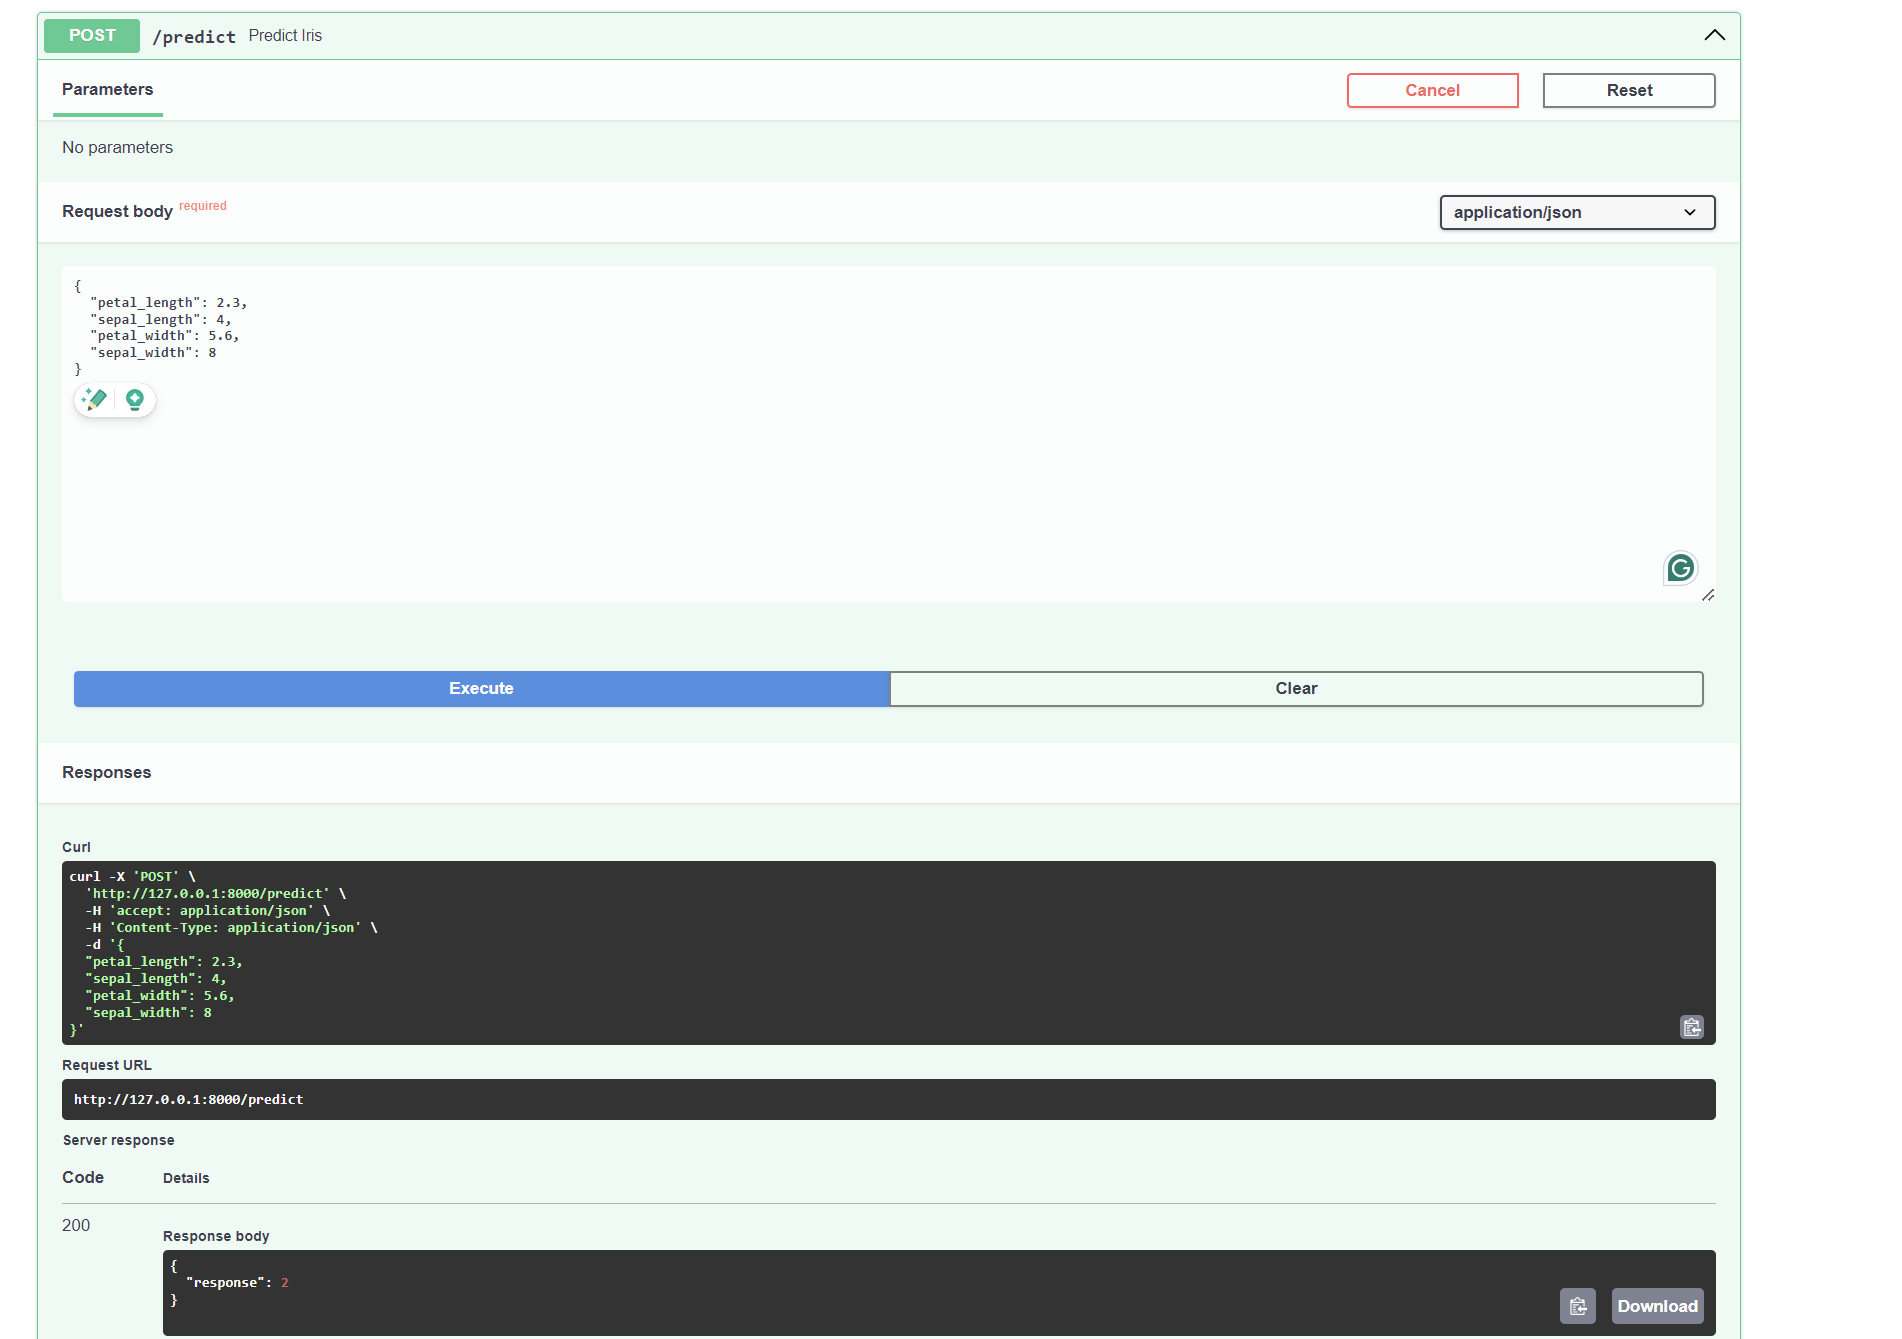
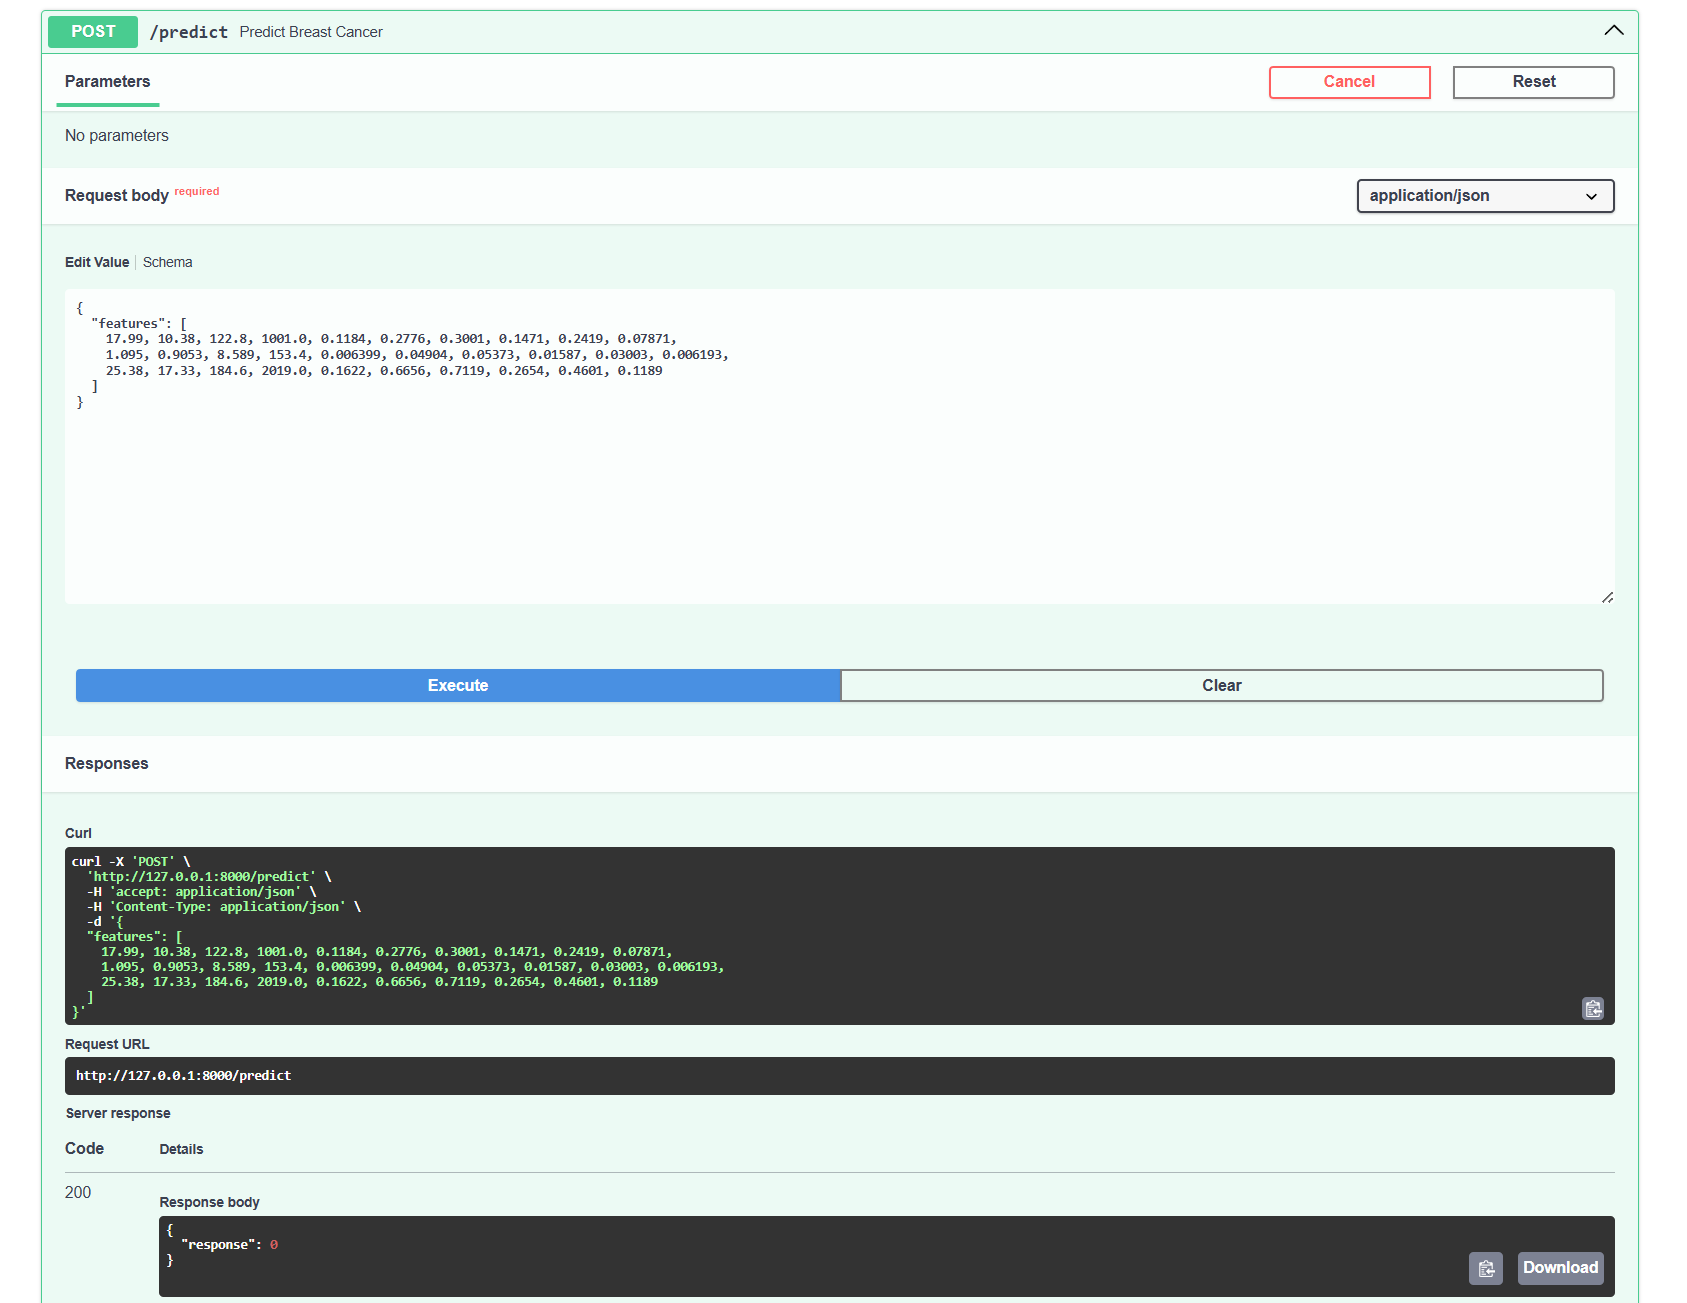
Update README.me

diff --git a/FastAPI_Lab/README.md b/FastAPI_Lab/README.md
@@ -1,3 +1,15 @@
+Changes in this lab assignment:
+
+    1. Switched from Iris to the Breast Cancer dataset.
+    2. Used a Random Forest model instead of a Decision Tree.
+    3. Training now uses all 30 features from the dataset.
+    4. The model is saved as model/breast_rf.pkl.
+    5. The train script uses a stratified train test split with a fixed seed for reproducibility.
+    6. The API request body now accepts a single list named features with exactly 30 numbers.
+    7. Predictions use predict_proba with a 0.5 threshold (0 = malignant, 1 = benign).
+    8. Screenshots in assets show the updated docs and a malignant example
+
+
 
 ---
 - Video Explanation: [FastAPI lab](https://www.youtube.com/watch?v=KReburHqRIQ&list=PLcS4TrUUc53LeKBIyXAaERFKBJ3dvc9GZ&index=4)
@@ -9,10 +21,10 @@
 
 In this Lab, we will learn how to expose ML models as APIs using [FastAPI](https://fastapi.tiangolo.com/) and [uvicorn](https://www.uvicorn.org/).
 1. **FastAPI**: FastAPI is a modern, fast (high-performance), web framework for building APIs with Python based on standard Python type hints.
-2. **uvicorn**: Uvicorn is an [Asynchronous Server Gateway Interface - ASGI](https://youtu.be/vKjCkeJGbNk) web server implementation for Python. It is often used to serve FastAPI aplications.
+2. **uvicorn**: Uvicorn is an [Asynchronous Server Gateway Interface - ASGI](https://youtu.be/vKjCkeJGbNk) web server implementation for Python. It is often used to serve FastAPI applications.
 
 The workflow involves the following steps:
-1. Training a Decision Tree Classifier on Iris Dataset.
+1. Training a Random Forest classifier on the Breast Cancer dataset.
 2. Serving the trained model as an API using FastAPI and uvicorn.
 
 ## Setting up the lab
@@ -23,20 +35,19 @@ The workflow involves the following steps:
 ### Project structure
 
 ```
-mlops_labs
-└── fastapi_lab1
-    ├── assets/
-    ├── fastapi_lab1_env/
-    ├── model/
-    │   └── iris_model.pkl
-    ├── src/
-    │   ├── __init__.py
-    │   ├── data.py
-    │   ├── main.py
-    │   ├── predict.py
-    │   └── train.py
-    ├── README.md
-    └── requirements.txt
+FastAPI_Lab/
+├─ assets/
+├─ model/                    
+│  └─ breast_rf.pkl
+├─ src/
+│  ├─ __init__.py
+│  ├─ data.py                 
+│  ├─ main.py                 
+│  ├─ predict.py              
+│  └─ train.py               
+└─ requirements.txt
+
+
 ```
 
 Note:
@@ -44,19 +55,19 @@ Note:
 
 ## Running the Lab
 
-1. First step is to train a Decision Tree Classifier(Although you have **`model/iris_model.pkl`** when you cloned from the repo, let's create a new model). To do this, move into **src/** folder with
+1. First step is to train a Random Forest classifier (you might already have model/breast_rf.pkl, but let’s train a fresh one). To do this, move into **src/** folder with
     ```bash
     cd src
     ```
-2. To train the Decision Tree Classifier, run:
+2. To train the Random Forest Classifier, run:
     ```bash
     python train.py
     ```
 3. To serve the trained model as an API, run:
     ```bash
-    uvicorn app:main --reload
+    uvicorn main:app --reload
     ```
-4. Testing endpoints - to view the documentation of your api model you can use [http://127.0.0.1:8000/docs](http://127.0.0.1:8000/docs) (or) [http://localhost:8000/docs](http://localhost:8000/docs) after you run you run your FastAPI app.
+4. Testing endpoints - to view the documentation of your API model you can use [http://127.0.0.1:8000/docs](http://127.0.0.1:8000/docs) (or) [http://localhost:8000/docs](http://localhost:8000/docs) after you run your FastAPI app.
     
 ![API page](assets/docs.png)
    
@@ -69,7 +80,7 @@ You can also test out the results of your endpoints by interacting with them. Cl
 ### FastAPI Syntax
 
 - The instance of FASTAPI class can be defined as:
-    ```bash
+    ```python
     app = FastAPI()
      ```
 - When you run a FastAPI application, you often pass this app instance to an ASGI server uvicorn. The server then uses the app instance to handle incoming web requests and send responses based on the routes and logic you’ve defined in your FastAPI application.
@@ -81,37 +92,36 @@ You can also test out the results of your endpoints by interacting with them. Cl
 - All the functions which should be used as API should be prefixed by **@app.get("/followed_by_endpoint_name")** or **@app.post("/followed_by_endpoint_name")**. This particular syntax is used to define route handlers (which function should handle an incoming request based on the URL and HTTP method), which are the functions responsible for responding to client requests to a given endpoint.
     1. **Decorator (@)**: This symbol is used to define a decorator, which is a way to dynamically add functionality to functions or methods. In FastAPI, decorators are used to associate a function with a particular HTTP method and path.
     2. **App Instance (app)**: This represents an instance of the FastAPI class. It is the core of your application and maintains the list of defined routes, request handlers, and other configurations.
-    3. **HTTP Method (get, post, etc.)**: The HTTP method specifies the type of HTTP request the route will respond to. For example, get is used for retrieving data, and post is used for sending data to the server. FastAPI provides a decorator for each standard HTTP method, such as @app.put, @app.delete, @app.patch, and @app.options, allowing you to define handlers for different types of client requests. For detailed info refer to this webiste by [Mdn](https://developer.mozilla.org/en-US/docs/Web/HTTP/Methods).
+    3. **HTTP Method (get, post, etc.)**: The HTTP method specifies the type of HTTP request the route will respond to. For example, get is used for retrieving data, and post is used for sending data to the server. FastAPI provides a decorator for each standard HTTP method, such as @app.put, @app.delete, @app.patch, and @app.options, allowing you to define handlers for different types of client requests. For detailed info refer to this website by [MDN](https://developer.mozilla.org/en-US/docs/Web/HTTP/Methods).
     4. **Path/Endpoint ("/endpoint_name")**: This is the URL path where the API will be accessible. When a client makes a request to this path using the specified HTTP method, FastAPI will execute the associated function and return the response.
 - Using **async** in FastAPI allows for non-blocking operations, enabling the server to handle other requests while waiting for I/O tasks, like database queries or model loading, to complete. This leads to improved concurrency and resource utilization, enhancing the application's ability to manage multiple simultaneous requests efficiently.
 
 ### Data Models in FastAPI
 
-##### 1. IrisData class
+##### 1. Request model
 
 ```python
-class IrisData(BaseModel):
-    petal_length: float
-    sepal_length:float
-    petal_width:float
-    sepal_width:float
+from pydantic import BaseModel, conlist
+
+class CancerInput(BaseModel):
+    features: conlist(float, min_length=30, max_length=30)
+
 ```
 
-The **IrisData** class is a [Pydantic model](https://docs.pydantic.dev/latest/concepts/models/) which defines the expected structure of the data for a request body. When you use it as a type annotation for a route operation parameter, FastAPI will perform the following actions:
-- **Request Body Reading:** FastAPI will read the request body as JSON.
-- **Data Conversion:** It will convert the corresponding types, if necessary.
-- **Data Validation:** It will validate the data. If the data is invalid, it will return a 422 Unprocessable Entity error response with details about what was incorrect.
+FastAPI will:
 
-#### 2. IrisResponse class
+ ~ Read the JSON request body
+ ~ Convert types when possible
+ ~ Validate that exactly 30 numbers are provided (else it returns 422)
+
+#### 2. Response model
 
 ```python
-class IrisResponse(BaseModel):
-    response:int
+class CancerResponse(BaseModel):
+    response: int
 ```
 
-The **IrisResponse** class is another Pydantic model that defines the structure of the response data for an endpoint. When you specify **response_model=IrisResponse** in a route operation, it tells FastAPI to:
-- **Serialize the Output**: Convert the output data to JSON format according to the IrisResponse model.
-- **Document the API**: Include the IrisResponse model in the generated API documentation, so API consumers know what to expect in the response.
+When you set response_model=CancerResponse, FastAPI serializes the output and documents it in the OpenAPI/Swagger UI.
 
 ---
 
@@ -119,7 +129,7 @@ The **IrisResponse** class is another Pydantic model that defines the structure 
 
 1. **Request Body Reading**: When a client sends a request to a FastAPI endpoint, the request can include a body with data. For routes that expect data (commonly POST, PUT, or PATCH requests), this data is often in JSON format. FastAPI automatically reads the request body by checking the Content-Type header, which should be set to application/json for JSON payloads.
 2. **Data Conversion**: Once the request body is read, FastAPI utilizes Pydantic models to parse the JSON data. Pydantic attempts to construct an instance of the specified model using the data from the request body. During this instantiation, Pydantic converts the JSON data into the proper Python data types as declared in the model.
-    - For instance, if the JSON object has a field like petal_length with a value of "5.1" (a string), and the model expects a float, Pydantic will transform the string into a float. If conversion isn't possible (say, the value was "five point one"), Pydantic will raise a validation error.
+    - For instance, if the JSON has "features": ["0.1", "0.2", ...] (strings) and the model expects floats, Pydantic converts them to floats. If conversion isn’t possible, it raises a validation error.
 3. **Data Validation**: Pydantic checks that all required fields are present and that the values are of the correct type, adhering to any constraints defined in the model (such as string length or number range). If the validation passes, the endpoint has a verified Python object to work with. If validation fails (due to missing fields, incorrect types, or constraint violations), FastAPI responds with a 422 Unprocessable Entity status. This response includes a JSON body detailing the validation errors, aiding clients in correcting their request data.
 4. **Error Handling**: Error handling in FastAPI can be effectively managed using the HTTPException class. HTTPException is used to explicitly signal an HTTP error status code and return additional details about the error. When an HTTPException is raised within a route, FastAPI will catch the exception and use its content to form the HTTP response.
 - **Instantiation**: The HTTPException class is instantiated with at least two arguments: status_code and detail. The status_code argument is an integer that represents the HTTP status code (e.g., 404 for Not Found, 400 for Bad Request). The detail argument is a string or any JSON-encodable object that describes the error.
@@ -132,7 +142,7 @@ app = FastAPI()
 
 @app.get("/items/{item_id}")
 async def read_item(item_id: int):
-    item = get_item_by_id(item_id)  # Hypothetical function to fetch an item
+    item = get_item_by_id(item_id)  # your lookup
     if item is None:
         raise HTTPException(status_code=404, detail=f"Item with ID {item_id} not found")
     return item
@@ -148,3 +158,6 @@ FastAPI will catch this exception and return a response with a 404 status code a
 }
 ```
 - For more information on how to handle errors in FASTAPI refer to this [documentation](https://fastapi.tiangolo.com/tutorial/handling-errors/).
+
+
+
